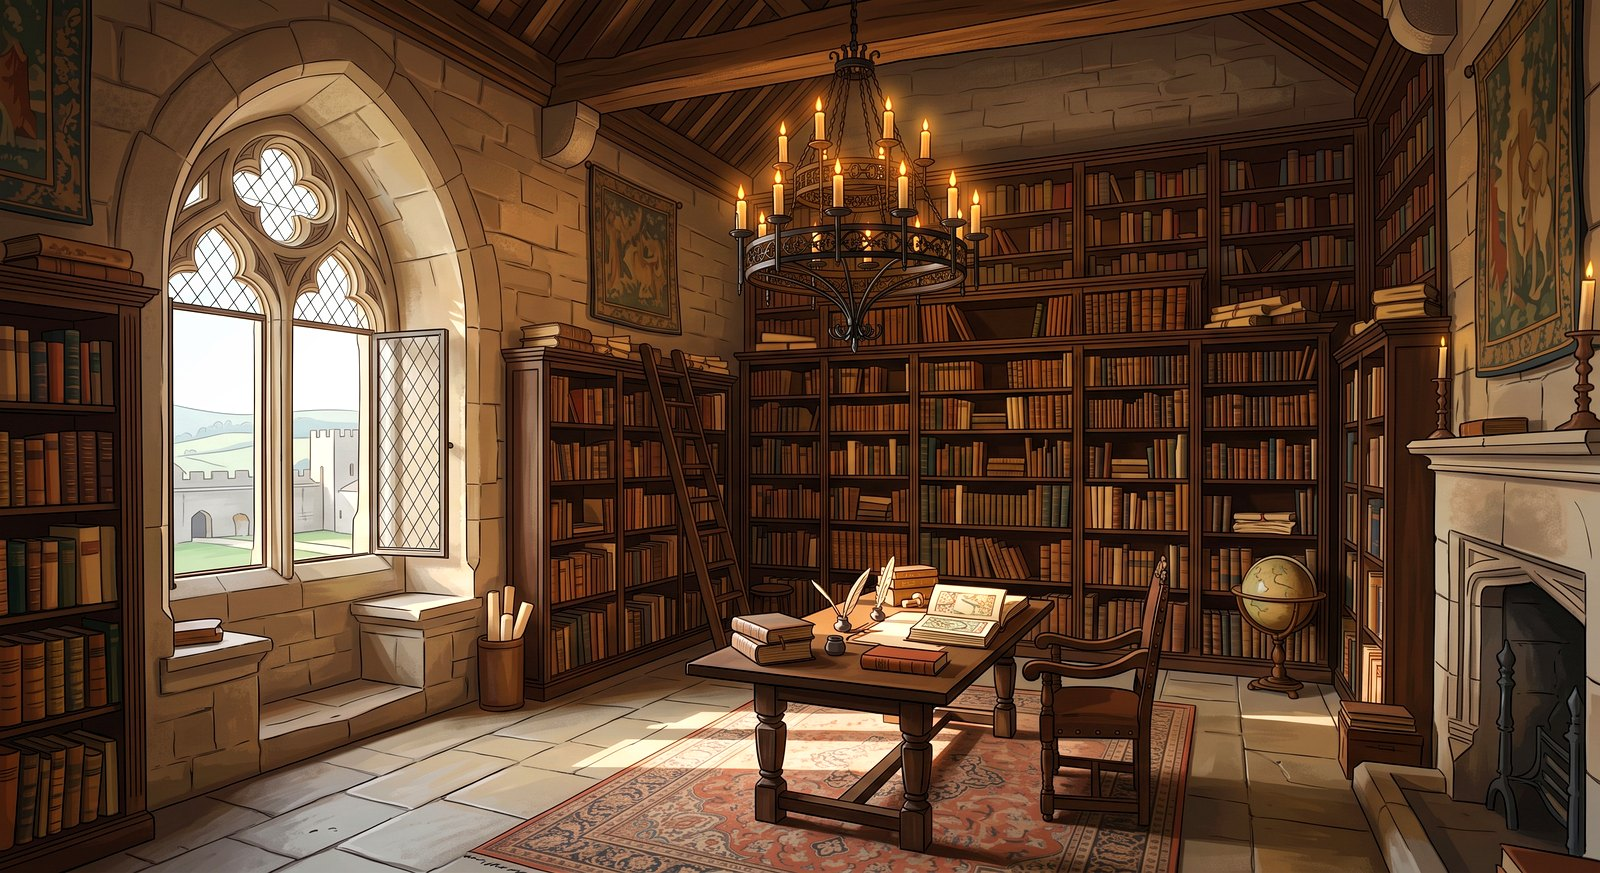
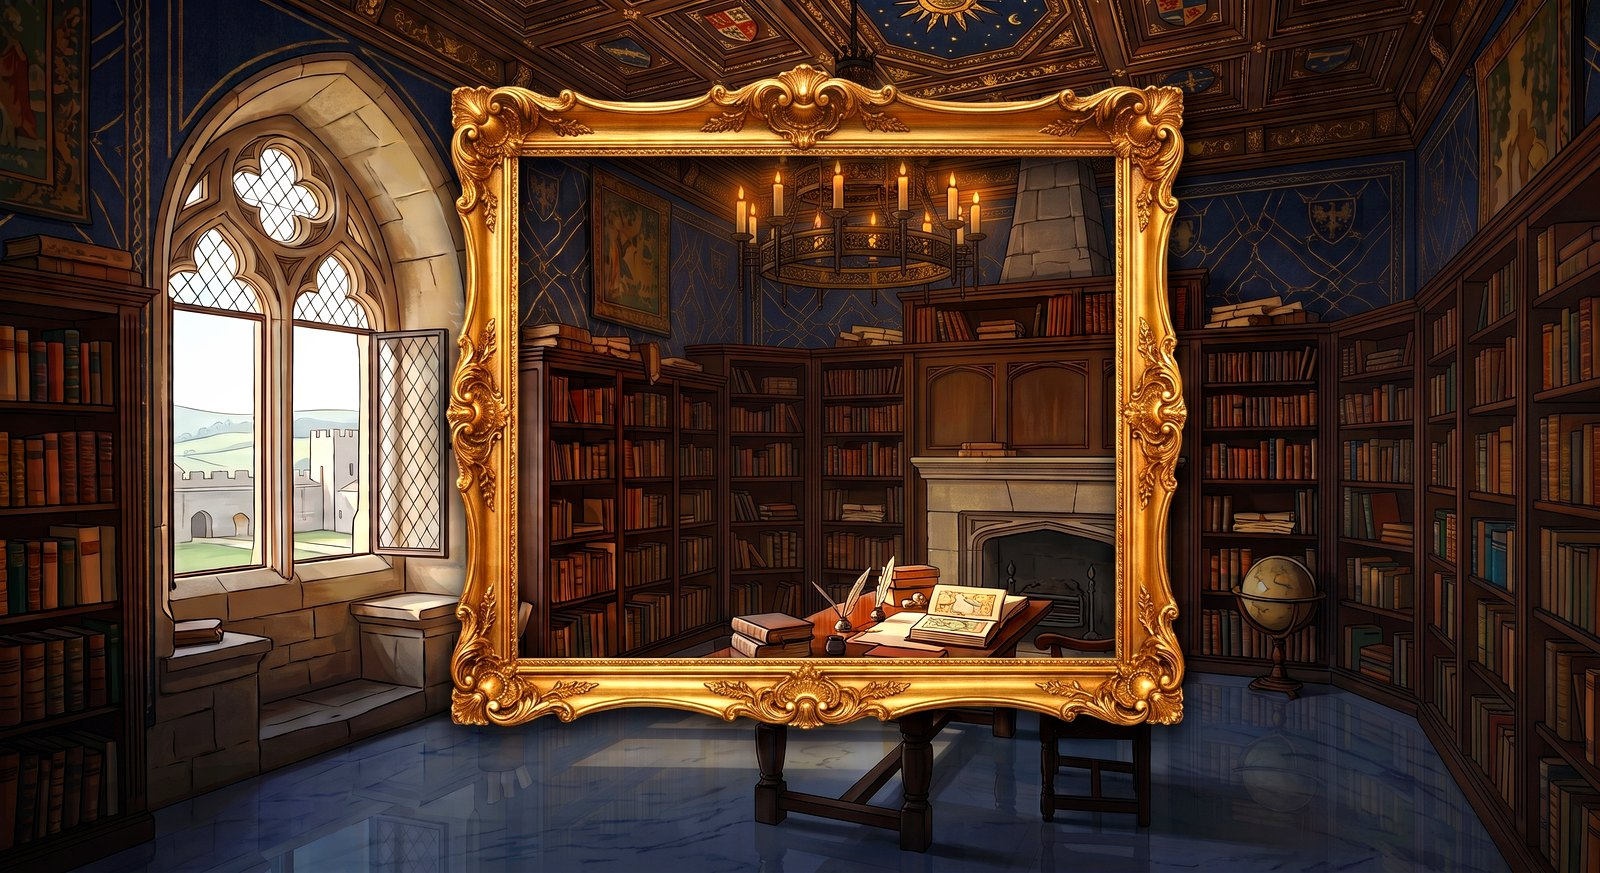
Portada: nueva biblioteca del castillo en azul rey y dorado detrás de la rosa
Reemplaza la imagen de fondo del héroe por la nueva biblioteca (azul rey + dorado,
en paleta Bella y la Bestia), con overlay azul y viñeta para legibilidad. Cache-bust ?v=2.
Sin cambios de textos ni funcionalidades.

diff --git a/index.html b/index.html
@@ -478,9 +478,9 @@
   .hero::before{
     content:''; position:absolute; inset:0; z-index:0; pointer-events:none;
     background:
-      linear-gradient(180deg, rgba(30,18,10,.58), rgba(30,18,10,.40) 44%, rgba(20,12,6,.72)),
-      url('img/biblioteca.jpg?v=1') center / cover no-repeat;
-    filter:brightness(1.03) saturate(1.1);
+      linear-gradient(180deg, rgba(14,16,38,.56), rgba(14,16,38,.38) 44%, rgba(16,14,30,.70)),
+      url('img/biblioteca.jpg?v=2') center / cover no-repeat;
+    filter:brightness(1.04) saturate(1.12);
   }
   .hero > *{ position:relative; z-index:1 }
   /* pareja de vals sobre el salón, detrás del marco */
